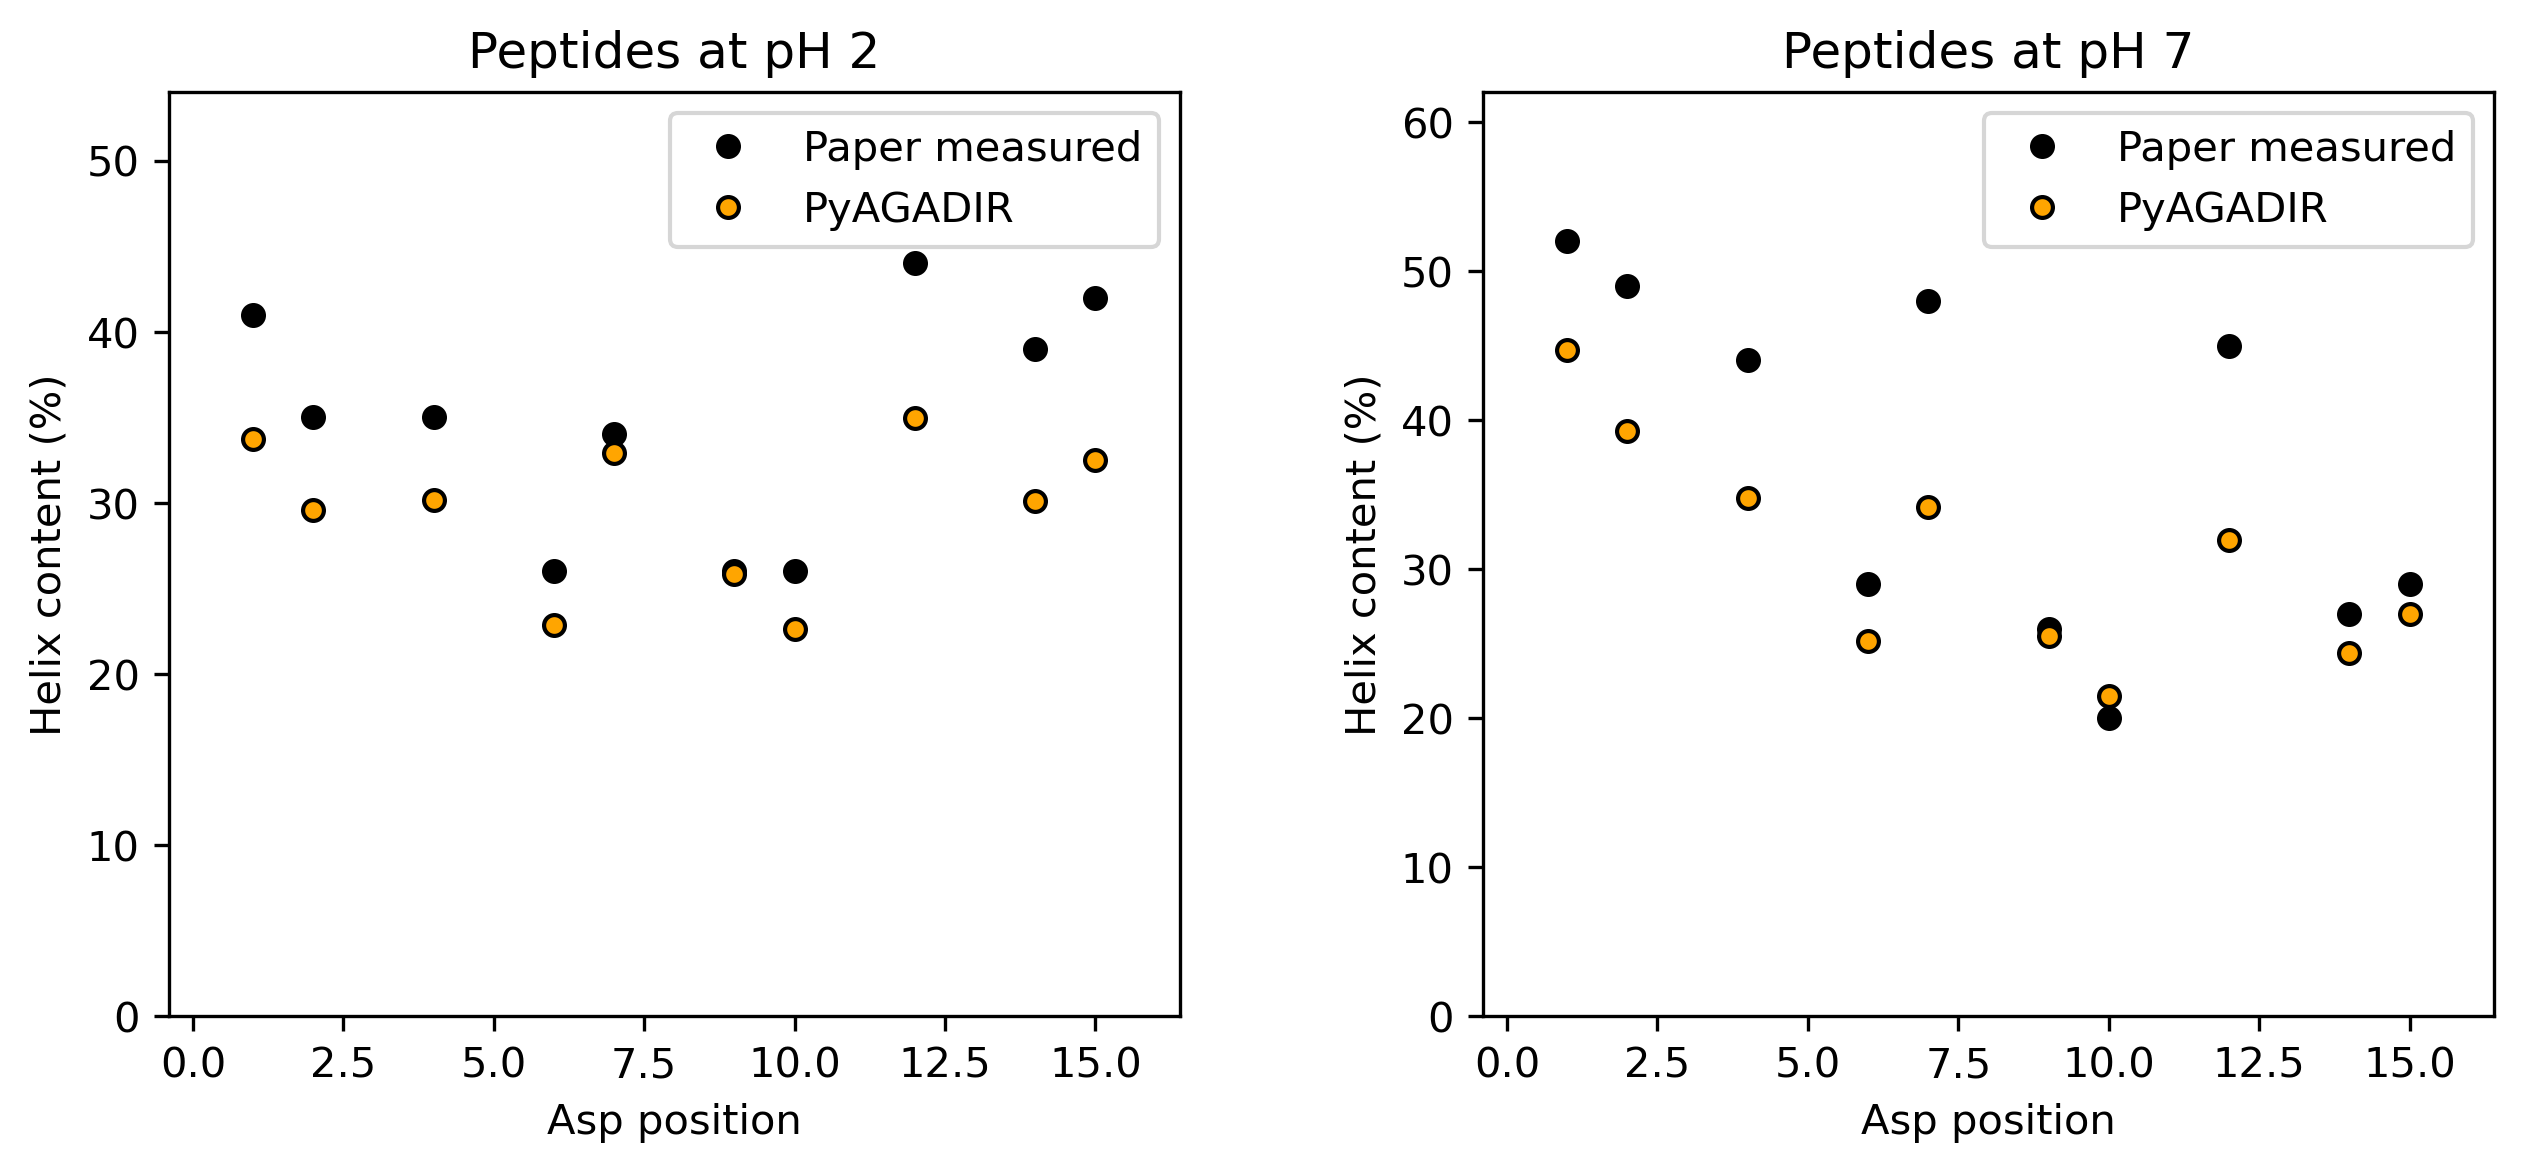
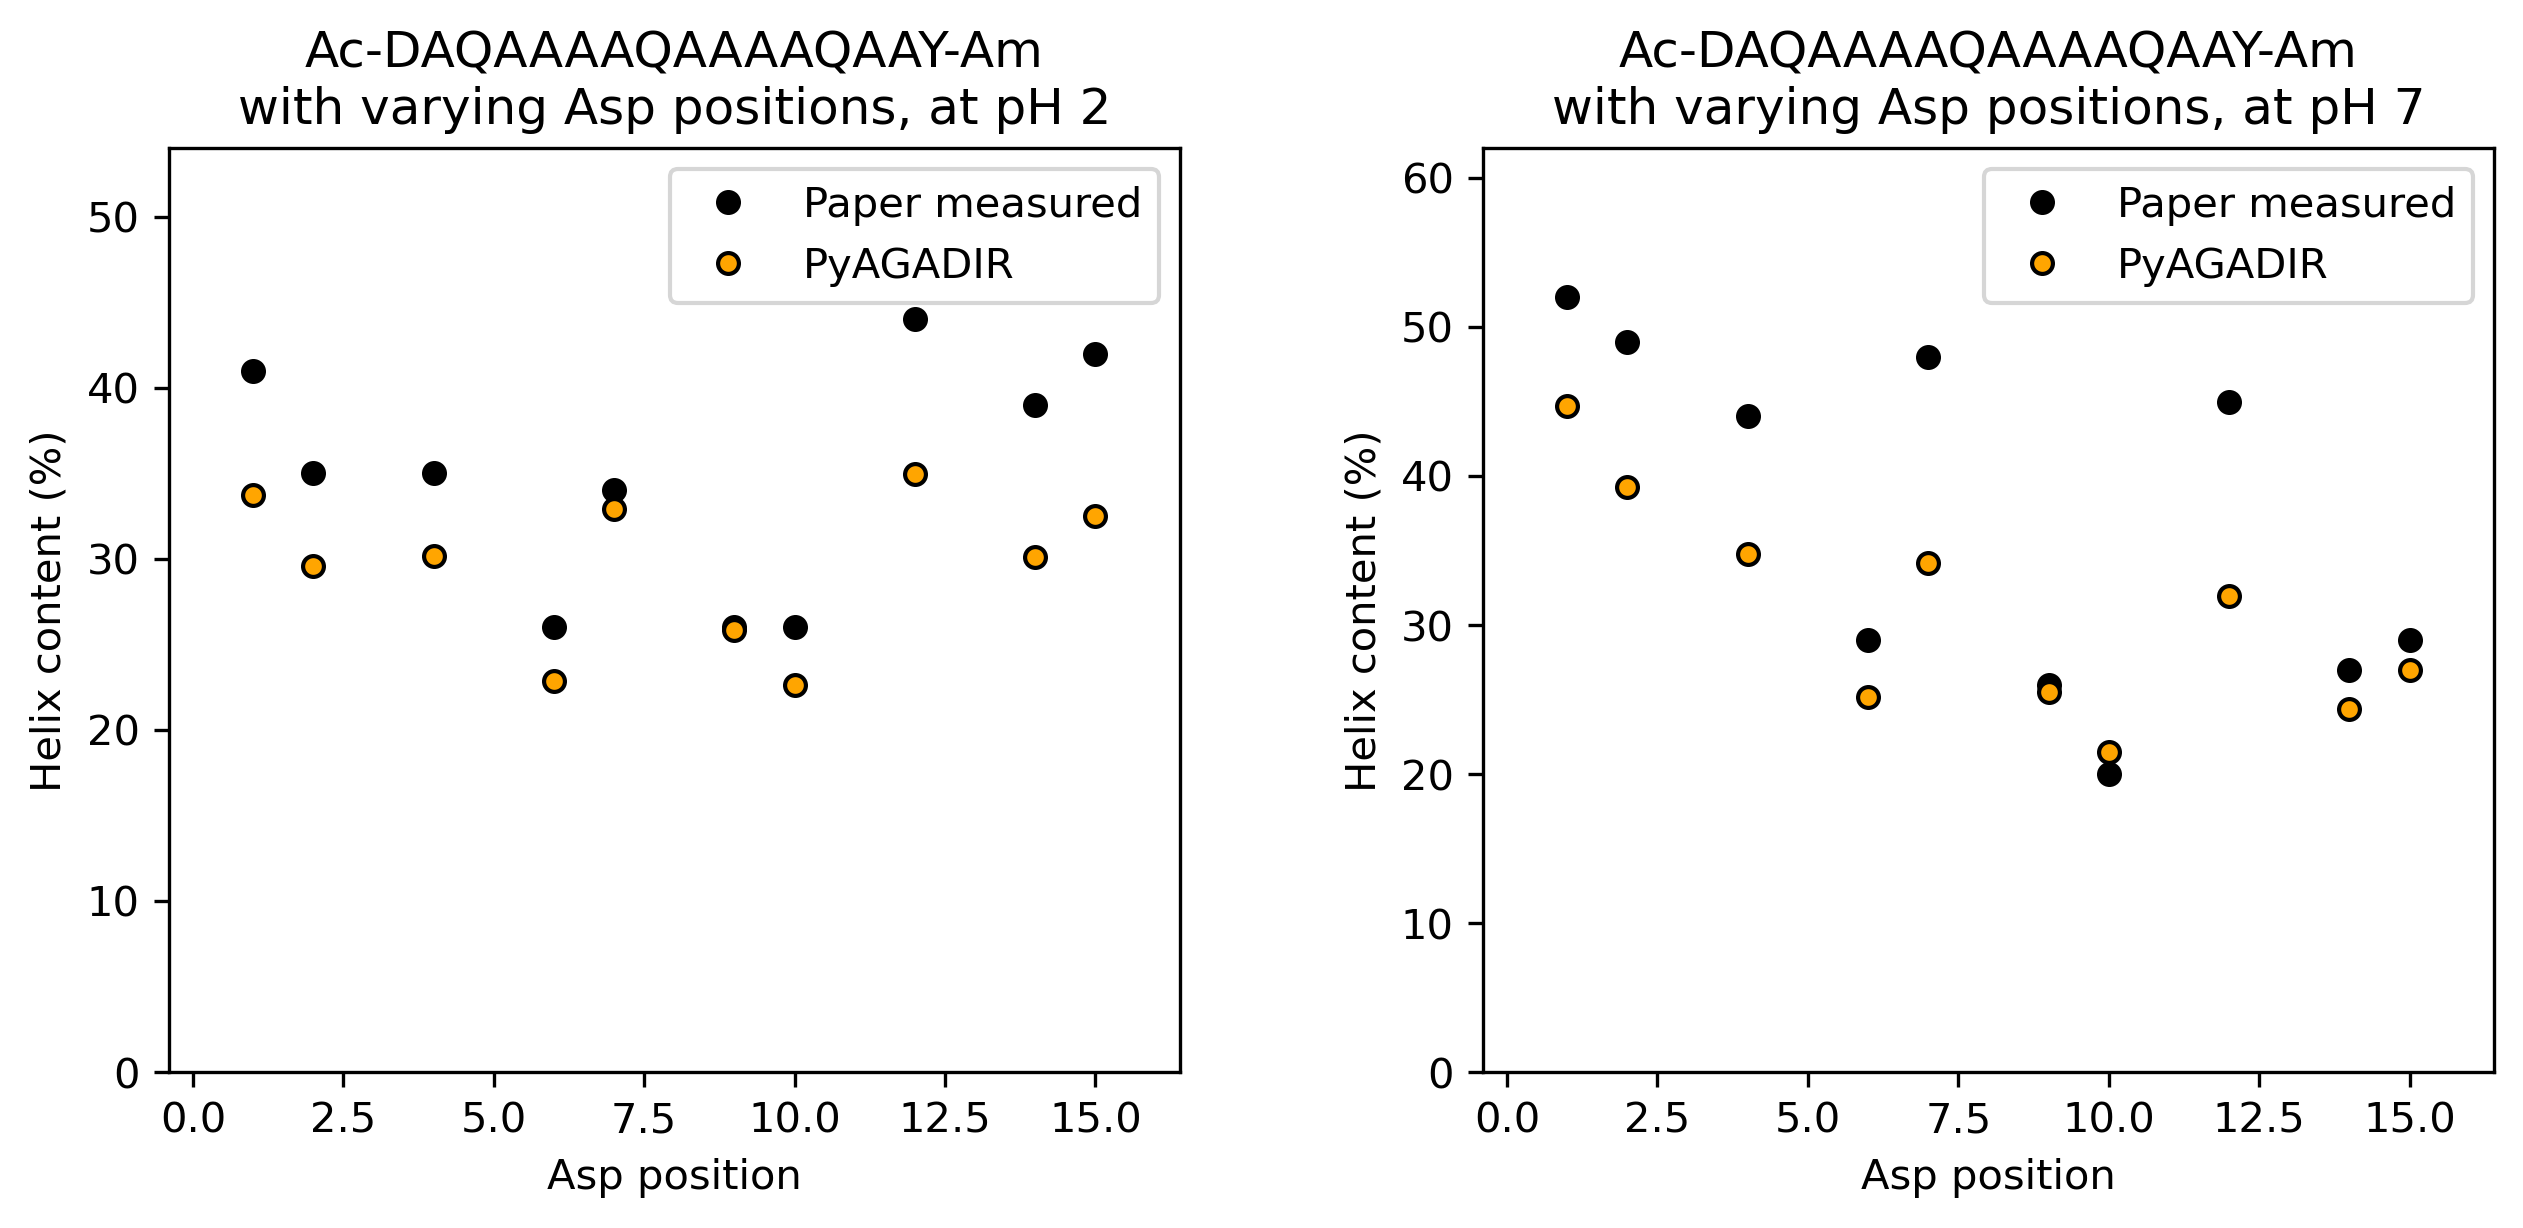
update figures

diff --git a/pyagadir/validation.py b/pyagadir/validation.py
@@ -139,7 +139,7 @@ def plot_peptides_helix_content(paper_measured_data_helix,
     # Configure plot
     xval_range = max(xvals)-min(xvals)
     ax.set_xlim(min(xvals)-0.1*xval_range, max(xvals)+0.1*xval_range)
-    ax.set_ylim(0, max(paper_measured_data_helix) + 10)
+    ax.set_ylim(0, max(max(paper_measured_data_helix), max(pyagadir_predicted_data_helix)) + 10)
     ax.set_xlabel(xlabel)
     ax.set_ylabel("Helix content (%)")
     ax.legend()
@@ -273,7 +273,7 @@ def reproduce_huygues_despointes_figure_1(method="1s"):
             result = model.predict(pept, ncap=ncap, ccap=ccap)
             pyagadir_predicted_data_helix.append(result.get_percent_helix())
             
-        title = "Peptides at pH " + str(ph)
+        title = f"Ac-DAQAAAAQAAAAQAAY-Am\nwith varying Asp positions, at pH " + str(ph)
         xlabel = "Asp position"
         _, ax = plot_peptides_helix_content(paper_measured_data,
                                             pyagadir_predicted_data_helix, 
@@ -351,7 +351,7 @@ if __name__ == "__main__":
     method = "1s"
     # reproduce_lacroix_figure_3b(method=method)
     # reproduce_lacroix_figure_4(method=method)
-    # reproduce_huygues_despointes_figure_1(method=method)
+    reproduce_huygues_despointes_figure_1(method=method)
     reproduce_munoz_1997_figure_4(method=method)
 
 

diff --git a/README.md b/README.md
@@ -198,9 +198,9 @@ Below is a validation plot for Figure 1A and 1B from Huygues-Despointes et al. (
 
 <img src="pyagadir/data/figures/huygues_despointes_figure_1a.png" width="800" alt="Figure 1A Validation">
 
-Below is a validation plot for Figure 4A-C from Munoz & Serrano (1997), showing repeats of the peptides AAQAAY, AAKAA and AEAAKA:
+Below is a validation plot for Figure 4A-C from Munoz & Serrano (1997), showing repeats of the peptides AAQAA, AAKAA and AEAAKA:
 
-<img src="pyagadir/data/figures/munoz_1997_figure_4.png" width="800" alt="Figure 4 Validation">
+<img src="pyagadir/data/figures/munoz_1997_figure_4.png" width="400" alt="Figure 4 Validation">
 
 ## Questions / To Do
 * Based on the validation plots, the model generally shows the correct trend, but some of the pH-dependent electrostatic energies look like they need work.
